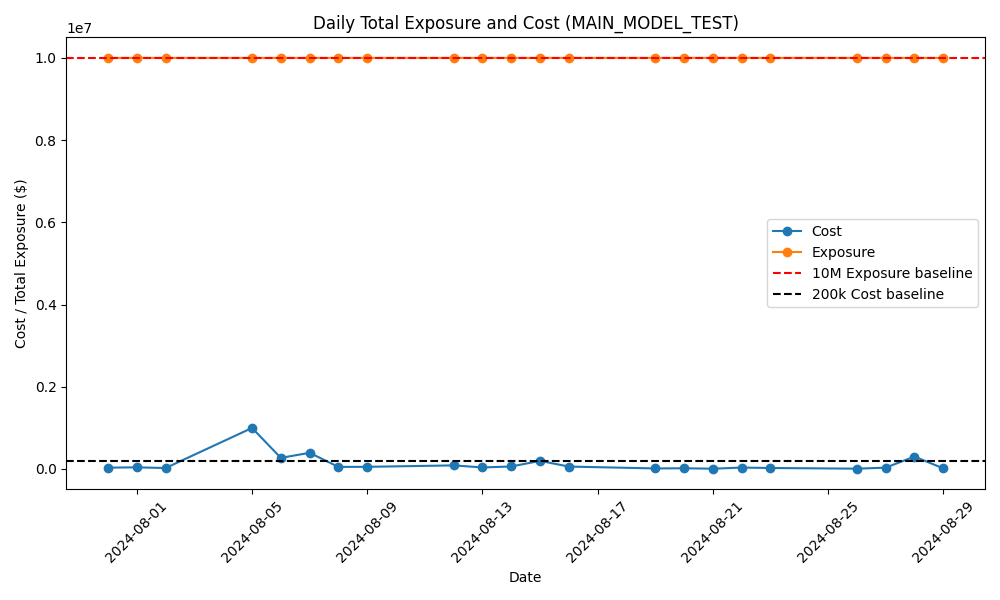
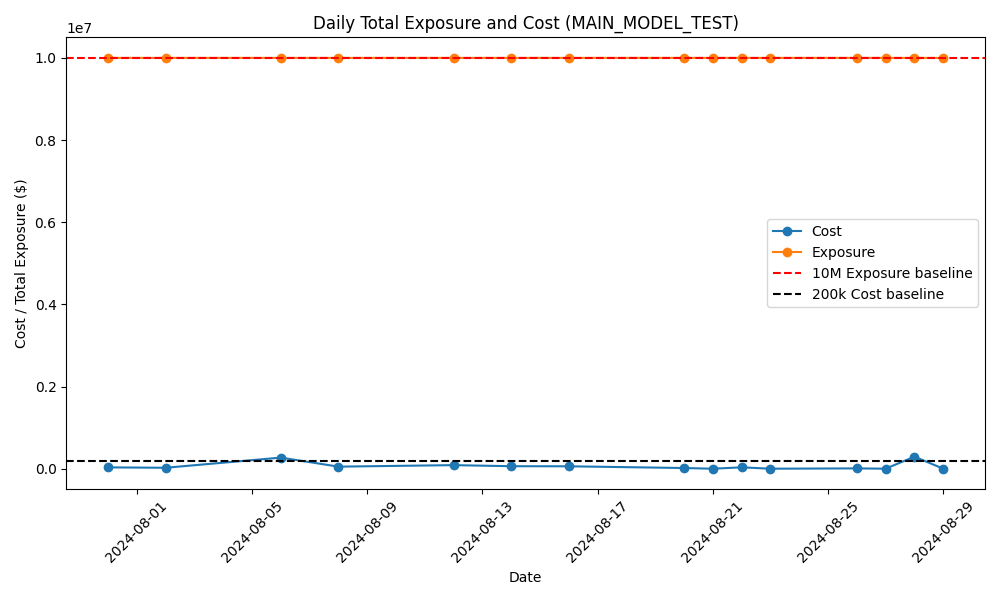
finalized model

diff --git a/models/main_model.py b/models/main_model.py
@@ -9,9 +9,9 @@ from pyomo.opt import SolverFactory
 WALL_TIME = 10  # seconds time limit
 CONTRACT_SIZE = 100  # contract size for options
 MIN_EXPOSURE = 10_000_000
-MODEL_NAME = "MAIN_MODEL_TEST"
+MODEL_NAME = "MAIN_MODEL_TRAIN"
 SOLVER = 'cbc'
-MARKET_DATA_PATH = "../data/BADSS test data.csv"
+MARKET_DATA_PATH = "../data/BADSS training data.csv"
 OUTPUT_FILE = f"../results/{MODEL_NAME}_optimized_trades.csv"
 SPOT_MOVES_DAILY_FILE = f"../results/{MODEL_NAME}_daily_spot_moves.csv"
 
@@ -23,7 +23,7 @@ data.columns = data.columns.str.strip().str.replace(" ", "_")
 data['Option_ID'] = data['Symbol'] + "_" + data['Maturity'] + "_" + data['Strike'].astype(str)
 option_ids = data['Option_ID'].tolist()
 
-# Create mappings for option data
+# Create mappings for option data (for the day the option is traded)
 symbol = data.set_index('Option_ID')['Symbol'].to_dict()
 ask_price = data.set_index('Option_ID')['Ask_Price'].to_dict()
 bid_price = data.set_index('Option_ID')['Bid_Price'].to_dict()
@@ -65,56 +65,78 @@ next_date = {d: unique_dates[i+1] if i+1 < len(unique_dates) else None
              for i, d in enumerate(unique_dates)}
 
 # ------------------------------
-# Define Exposure Function
+# Define Exposure Functions
 # ------------------------------
+# For new trades: compute the exposure increment based on today's underlying price.
 def exposure_increment(undl, k, sym, date):
-    # Get the spot move for this symbol on the given date
     move = daily_spot_moves[date][sym]
     return max(undl * move - k, 0) - max(undl - k, 0)
 
+# For carried positions, we assume the exposure was "locked in" on the purchase day.
+# (In a more dynamic model, you could re-calc exposure using today's market data.)
+def carried_exposure(trade):
+    # trade already stores its base_exposure (computed on the day of purchase)
+    return trade['quantity'] * CONTRACT_SIZE * trade['base_exposure']
+
 # ------------------------------
-# Daily Optimization Loop
+# Initialize Portfolio to hold carried-over positions
+# ------------------------------
+portfolio = []  # list of dicts; each dict has keys: Option_ID, quantity, base_exposure, Maturity, Symbol
+
+# ------------------------------
+# Daily Optimization Loop (Adjusted to include carried exposure)
 # ------------------------------
 all_trades = []        # To store trade results from each day
-daily_exposure_list = []  # To store total exposure for each day
+daily_exposure_list = []  # To store total exposure (carried + new) for each day
 
 for d in unique_dates:
     nd = next_date[d]
     if nd is None:
-        continue  # Skip the last day since we need a next-day for exposure
+        continue  # Skip last day since we need a next day for exposure calculation
 
-    # Filter options that are traded on day d and are valid (not expired by next day)
+    # Remove expired positions from the portfolio (if maturity date < current day d)
+    portfolio = [trade for trade in portfolio if pd.to_datetime(trade['Maturity']) >= pd.to_datetime(d)]
+    
+    # Compute carried exposure from previous trades
+    carried_exposure_value = sum(carried_exposure(trade) for trade in portfolio)
+    
+    # ------------------------------
+    # Filter options available for trading on day d
+    # ------------------------------
     options_today = [
         o for o in option_ids 
         if date_map[o] == d and pd.to_datetime(maturity_map[o]) >= pd.to_datetime(nd)
     ]
     if not options_today:
+        # Record the day's exposure (only carried positions)
+        daily_exposure_list.append({"Date": d, "Exposure": carried_exposure_value})
         continue
 
-    # Compute exposure for each option on day d
+    # Compute exposure for each new trade option on day d (using today's data)
     exposure_today = {
         o: exposure_increment(undl_price[o], strike[o], symbol[o], d)
         for o in options_today
     }
 
     # ------------------------------
-    # Build the Pyomo Model for Day d
+    # Build the Pyomo Model for Day d (New Trades)
     # ------------------------------
     model_day = ConcreteModel()
     model_day.OPTIONS = Set(initialize=options_today)
     model_day.buy = Var(model_day.OPTIONS, domain=NonNegativeIntegers)
 
-    # Bound constraints on buys: cannot buy more than available ask size
+    # Bound constraint: cannot buy more than available ask size
     def buy_bound_rule(model, o):
         return model.buy[o] <= ask_size[o]
     model_day.buy_bound = Constraint(model_day.OPTIONS, rule=buy_bound_rule)
 
-    # Exposure constraint for day d: ensure total exposure is at least MIN_EXPOSURE
+    # Exposure constraint: carried exposure plus new exposure must meet MIN_EXPOSURE
     def exposure_rule(model):
-        return sum(model.buy[o] * CONTRACT_SIZE * exposure_today[o] for o in model.OPTIONS) >= MIN_EXPOSURE
+        new_exposure = sum(model.buy[o] * CONTRACT_SIZE * exposure_today[o] for o in model.OPTIONS)
+        return carried_exposure_value + new_exposure >= MIN_EXPOSURE
     model_day.exposure_constraint = Constraint(rule=exposure_rule)
 
-    # Objective: minimize the total premium cost on day d
+    # Objective: minimize total premium cost for new trades
     def objective_rule(model):
         return sum(model.buy[o] * ask_price[o] * CONTRACT_SIZE for o in model.OPTIONS)
     model_day.obj = Objective(rule=objective_rule, sense=minimize)
@@ -127,7 +149,7 @@ for d in unique_dates:
     result = solver.solve(model_day, tee=True)
 
     # ------------------------------
-    # Save Results for Day d
+    # Save Results for Day d (New Trades)
     # ------------------------------
     trades_today = []
     for o in model_day.OPTIONS:
@@ -135,7 +157,7 @@ for d in unique_dates:
         if buy_qty is None or buy_qty == 0:
             continue
         premium_cost = buy_qty * CONTRACT_SIZE * ask_price[o]
-        trades_today.append({
+        trade_info = {
             "Date": d,
             "Option_ID": o,
             "Symbol": symbol[o],
@@ -144,12 +166,23 @@ for d in unique_dates:
             "Ask_Price": ask_price[o],
             "Bid_Price": bid_price[o],
             "Premium_Cost": premium_cost,
+            # Store base_exposure for carried positions (from today's calculation)
+            "base_exposure": exposure_today[o]
+        }
+        trades_today.append(trade_info)
+        # Add new trade to portfolio (to be carried over to future days)
+        portfolio.append({
+            "Option_ID": o,
+            "quantity": buy_qty,
+            "base_exposure": exposure_today[o],
+            "Maturity": maturity_map[o],
+            "Symbol": symbol[o]
         })
     all_trades.extend(trades_today)
     
-    # Compute total exposure for day d
-    total_exposure = sum(model_day.buy[o].value * CONTRACT_SIZE * exposure_today[o] 
-                         for o in model_day.OPTIONS)
+    # Total exposure for day d = carried exposure + new trades' exposure (using today's exposures)
+    new_exposure_value = sum(model_day.buy[o].value * CONTRACT_SIZE * exposure_today[o] for o in model_day.OPTIONS)
+    total_exposure = carried_exposure_value + new_exposure_value
     daily_exposure_list.append({"Date": d, "Exposure": total_exposure})
 
 # ------------------------------

diff --git a/extract_results.py b/extract_results.py
@@ -2,9 +2,9 @@ import pandas as pd
 import numpy as np
 import matplotlib.pyplot as plt
 
-MODEL_NAME = "INTERN"
+MODEL_NAME = "MAIN_MODEL_TRAIN"
 INCLUDE_SELL = False
-MARKET_DATA_PATH = "./data/BADSS test data.csv"
+MARKET_DATA_PATH = "./data/BADSS training data.csv"
 OPTIMIZED_TRADES_PATH = f"./results/{MODEL_NAME}_optimized_trades.csv"
 EXPOSURE_BASELINE = 1e7
 COST_BASELINE = 2e5
